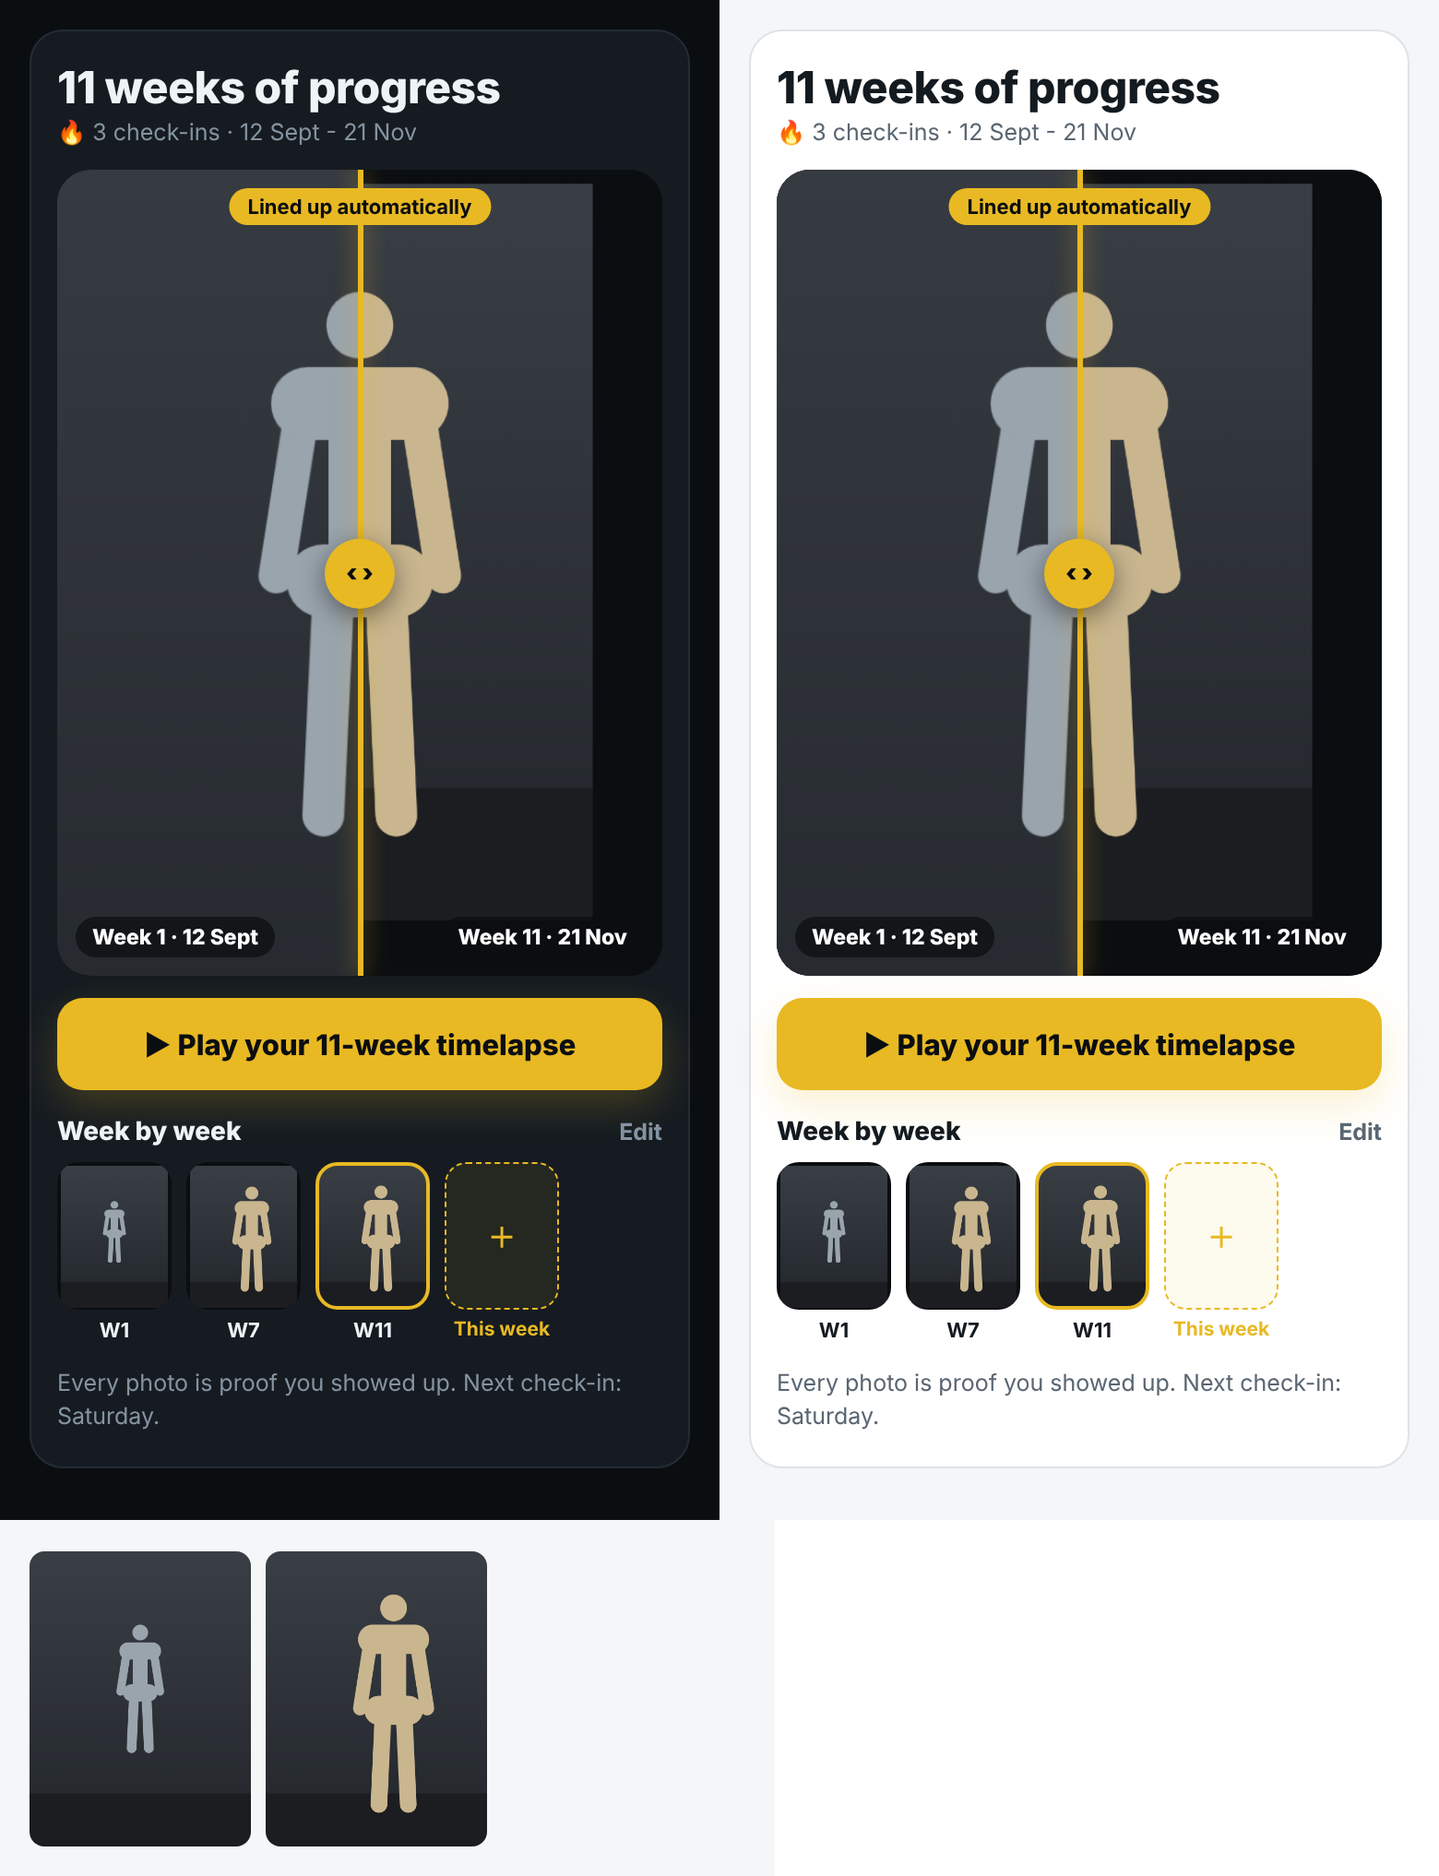
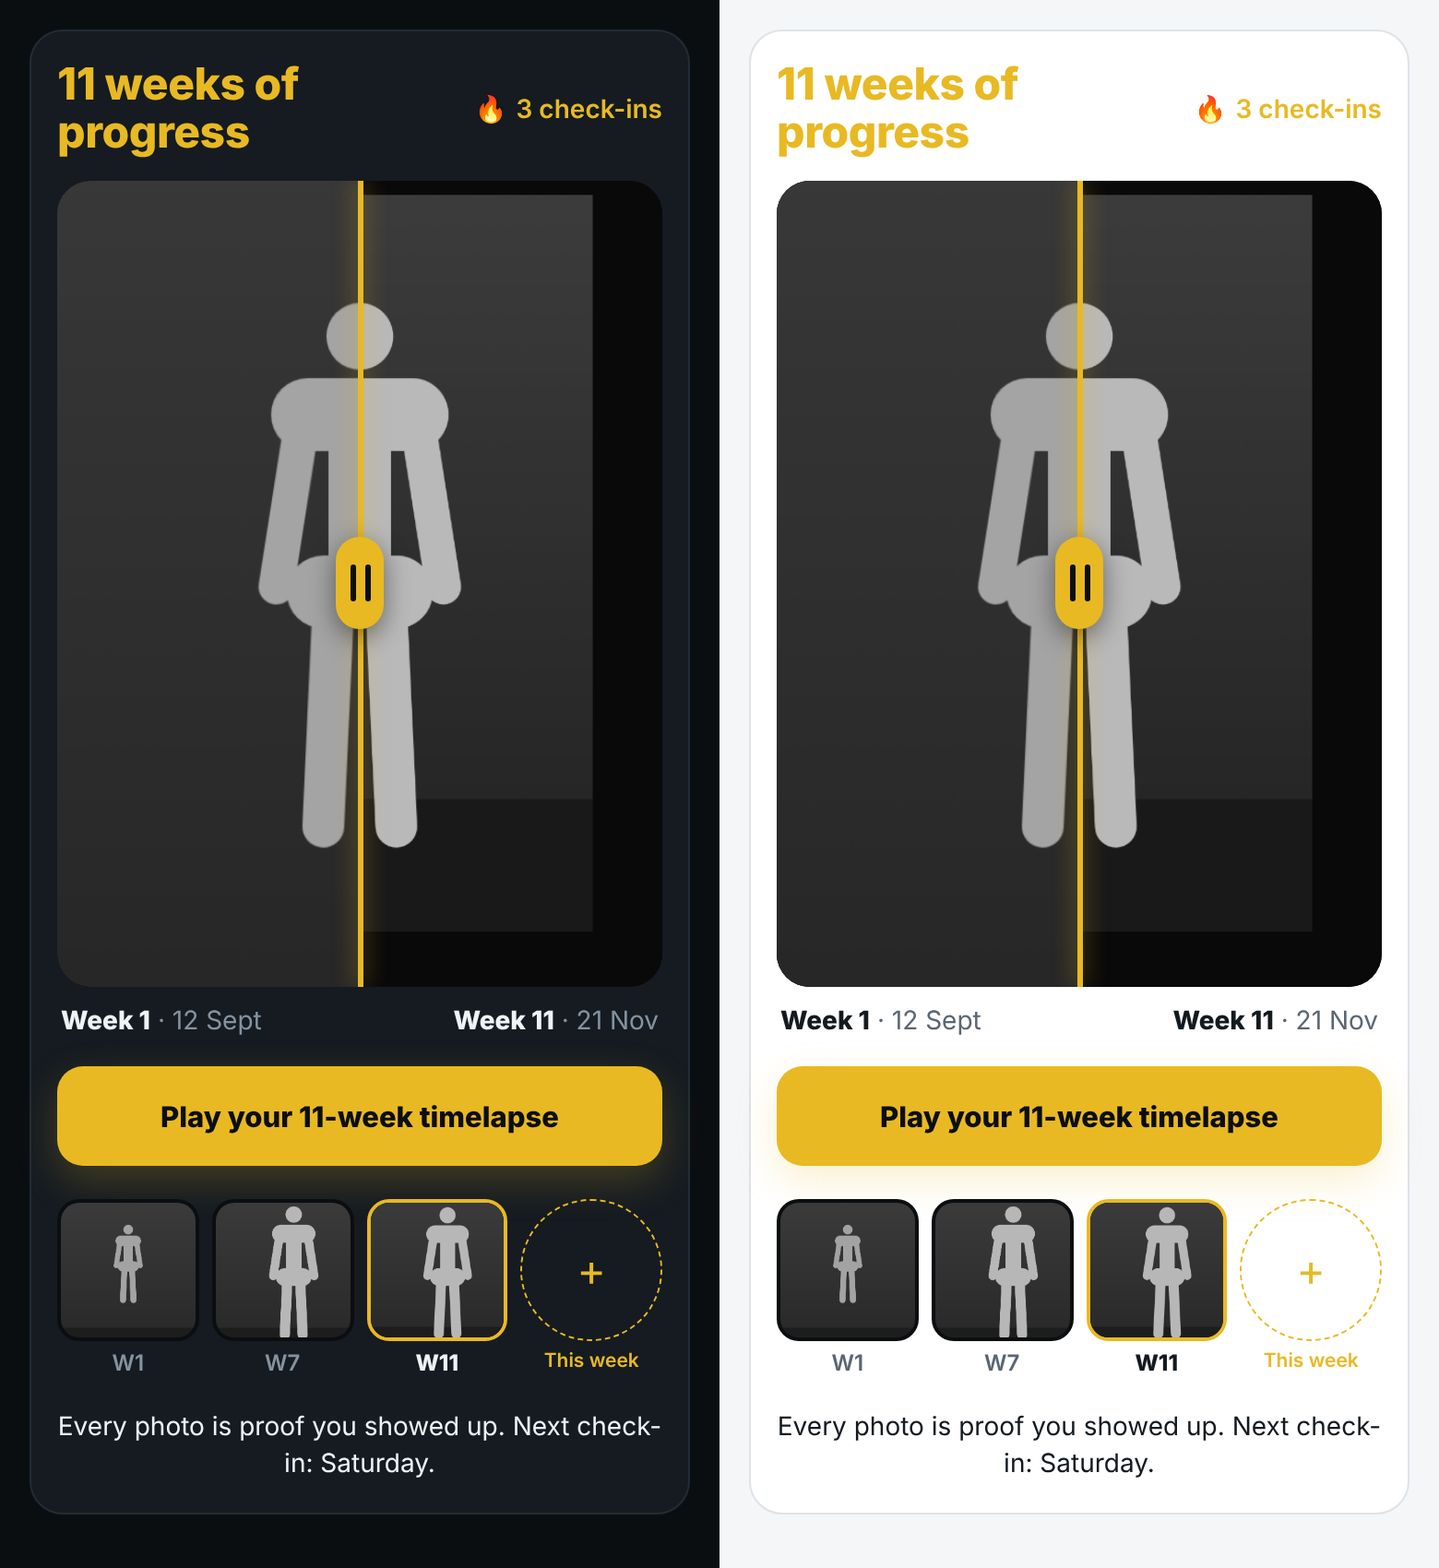
IH-2: check-ins card restyled to the OpenArt concept (gold title, B&W photos, pill handle, labels below, long-press delete)
Claude-Session: https://claude.ai/code/session_014YxhWURLdBk6p3Li8mU1vS

diff --git a/index.html b/index.html
@@ -404,33 +404,40 @@ html[data-theme="light"] .tr-tile .tr-ic{background:rgba(184,150,10,.12);color:#
 @keyframes mxGlow{0%,100%{box-shadow:0 0 0 0 rgba(232,185,35,0)}50%{box-shadow:0 0 14px 2px rgba(232,185,35,.35)}}
 @media (prefers-reduced-motion:reduce){.mx-plus{animation:none}}
 .tl-cv{position:absolute;inset:0;width:100%;height:100%;object-fit:contain}
-.ci2-h{font-family:Montserrat,system-ui,sans-serif;font-size:24px;font-weight:800;color:var(--ink);letter-spacing:-.01em}
+.ci2-hrow{display:flex;align-items:center;justify-content:space-between;gap:10px;margin-bottom:12px}
+.ci2-h{font-family:Montserrat,system-ui,sans-serif;font-size:clamp(19px,6vw,24px);font-weight:800;color:#E8B923;letter-spacing:-.01em;line-height:1.1}
+.ci2-cnt{flex:0 0 auto;font-size:14px;color:#E8B923;font-weight:600;display:flex;align-items:center;gap:5px}
+.ci2-labs{display:flex;justify-content:space-between;margin:10px 2px 0;font-size:14px;color:var(--muted)}
+.ci2-labs b{color:var(--ink);font-weight:800}
 .ci2-sub{font-size:12.5px;color:var(--muted);margin:2px 0 12px}
 .ci2-flame{filter:saturate(1.2)}
 .ci2-cmp{position:relative;aspect-ratio:3/4;border-radius:18px;overflow:hidden;background:#0B0E11;touch-action:pan-y;cursor:ew-resize;user-select:none}
-.ci2-cmp canvas{position:absolute;inset:0;width:100%;height:100%}
+.ci2-cmp canvas{position:absolute;inset:0;width:100%;height:100%;filter:grayscale(1) contrast(1.04)}
 .ci2-cmp.one{cursor:default}
 .ci2-cmp.one .ci2-line,.ci2-cmp.one .ci2-lab.l{display:none}
 .ci2-line{position:absolute;top:0;bottom:0;width:3px;margin-left:-1.5px;background:#E8B923;pointer-events:none;box-shadow:0 0 12px rgba(232,185,35,.6)}
-.ci2-knob{position:absolute;top:50%;left:50%;transform:translate(-50%,-50%);width:38px;height:38px;border-radius:50%;background:#E8B923;color:#0B0E11;font-weight:900;font-size:13px;display:flex;align-items:center;justify-content:center;box-shadow:0 4px 14px rgba(0,0,0,.45)}
+.ci2-knob{position:absolute;top:50%;left:50%;transform:translate(-50%,-50%);width:26px;height:50px;border-radius:13px;background:#E8B923;display:flex;align-items:center;justify-content:center;gap:5px;box-shadow:0 4px 14px rgba(0,0,0,.45)}
+.ci2-knob i{display:block;width:3px;height:20px;border-radius:2px;background:#0B0E11}
 .ci2-lab{position:absolute;bottom:10px;font-size:11.5px;font-weight:800;color:#fff;background:rgba(11,14,17,.72);padding:4px 9px;border-radius:999px}
 .ci2-lab.l{left:10px}.ci2-lab.r{right:10px}
-.ci2-status{position:absolute;top:10px;left:50%;transform:translateX(-50%);font-size:11px;font-weight:700;color:#0B0E11;background:#E8B923;padding:3px 10px;border-radius:999px;transition:opacity .6s;white-space:nowrap}
+.ci2-status{position:absolute;top:10px;left:50%;transform:translateX(-50%);font-size:11px;font-weight:700;color:#fff;background:rgba(11,14,17,.75);padding:3px 10px;border-radius:999px;transition:opacity .6s;white-space:nowrap}
 .ci2-status:empty{display:none}
 .ci2-status.fade{opacity:0}
-.ci2-play{display:block;width:100%;height:50px;margin:12px 0 4px;border:0;border-radius:14px;background:#E8B923;color:#0B0E11;font:inherit;font-size:15.5px;font-weight:800;cursor:pointer;box-shadow:0 8px 22px rgba(232,185,35,.22)}
+.ci2-play{display:block;width:100%;height:54px;margin:16px 0 4px;border:0;border-radius:14px;background:#E8B923;color:#0B0E11;font:inherit;font-size:15.5px;font-weight:800;cursor:pointer;box-shadow:0 8px 22px rgba(232,185,35,.22)}
 .ci2-strip-h{display:flex;justify-content:space-between;align-items:baseline;margin:14px 0 8px;font-size:14px;font-weight:800;color:var(--ink)}
 .ci2-edit{background:none;border:0;color:var(--muted);font:inherit;font-size:12.5px;font-weight:700;cursor:pointer}
-.ci2-strip{display:grid;grid-auto-flow:column;grid-auto-columns:62px;gap:8px;overflow-x:auto;padding-bottom:4px}
+.ci2-strip{display:grid;grid-auto-flow:column;grid-auto-columns:minmax(40px,1fr);gap:7px;overflow-x:auto;padding:14px 0 4px}
 .ci2-th{position:relative;display:flex;flex-direction:column;align-items:center;gap:4px;background:none;border:0;padding:0;color:var(--muted);font:inherit;cursor:pointer}
-.ci2-im{width:62px;height:80px;border-radius:12px;background:#0B0E11 center/cover no-repeat;border:2px solid transparent;display:flex;align-items:center;justify-content:center;font-size:22px;color:#E8B923}
+.ci2-im{width:100%;aspect-ratio:1/1;border-radius:12px;background:#0B0E11 center/cover no-repeat;border:2px solid transparent;display:flex;align-items:center;justify-content:center;font-size:24px;color:#E8B923;overflow:hidden}
+.ci2-pic{display:block;width:100%;height:100%;background:center/cover no-repeat;filter:grayscale(1)}   /* IH-2: only the photo is greyscale, so the gold ring on the selected week stays gold */
 .ci2-th.on .ci2-im{border-color:#E8B923}
-.ci2-th b{font-size:11px;color:var(--ink)}
-.ci2-th.add .ci2-im{border:1.5px dashed #E8B923;background:rgba(232,185,35,.08)}
+.ci2-th b{font-size:12px;color:var(--muted);font-weight:600}
+.ci2-th.on b{color:var(--ink);font-weight:800}
+.ci2-th.add .ci2-im{border:1.5px dashed #E8B923;border-radius:50%;background:transparent}
 .ci2-th.add b{color:#E8B923;font-size:10.5px}
 .ci2-x{display:none;position:absolute;top:-6px;right:-6px;width:22px;height:22px;border-radius:50%;background:#0B0E11;color:#E8B923;border:1.5px solid #E8B923;font-style:normal;font-size:15px;line-height:19px;text-align:center}
 .ci2-strip.editing .ci2-x{display:block}
-.ci2-note{font-size:12.5px;color:var(--muted);margin-top:10px;line-height:1.45}
+.ci2-note{font-size:14px;color:var(--ink);margin-top:14px;line-height:1.45;text-align:center}
 .pd-strip{background:var(--panel);border:1px solid var(--line);border-radius:16px;padding:12px 12px 10px;margin-bottom:12px}
 .pd-h{font-size:13px;font-weight:800;color:var(--ink);margin-bottom:8px}
 .pd-row{display:grid;grid-template-columns:repeat(7,minmax(0,1fr));gap:5px}
@@ -9121,15 +9128,15 @@ function checkinsInspireEl(cis){
   const nextTxt=doneThisWeek?`This week's photo is in. Next check-in: ${new Date(nextSat+"T12:00:00").toLocaleDateString("en-GB",{weekday:"long",day:"numeric",month:"short"})}.`:`Every photo is proof you showed up. Next check-in: ${nextSat===today?"today":new Date(nextSat+"T12:00:00").toLocaleDateString("en-GB",{weekday:"long"})}.`;
   if(!ok.length){ el.innerHTML=`<div class="ci2-h">Your progress starts here</div><div class="ci2-sub">Take your first check-in photo - every week after it builds your before and after.</div><button type="button" class="ci2-play" data-ci-add>📷 Take this week's photo</button>`; el.querySelector("[data-ci-add]").addEventListener("click",()=>startCheckin(today)); return el; }
   let after=ok.length-1;
-  el.innerHTML=`<div class="ci2-h">${span} week${span===1?"":"s"} of progress</div>
-    <div class="ci2-sub"><span class="ci2-flame">🔥</span> ${ok.length} check-in${ok.length===1?"":"s"} · ${short(first.checkin_date)} - ${short(last.checkin_date)}</div>
+  /* IH-2 (owner 11:35 "use the OpenArt design"): gold title with the check-in count on the right, black-and-white photos,
+     a pill handle on the divider, week labels under the photo, square thumbnails (press and hold one to delete), centred note */
+  el.innerHTML=`<div class="ci2-hrow"><div class="ci2-h">${span} week${span===1?"":"s"} of progress</div><span class="ci2-cnt"><span class="ci2-flame">🔥</span>${ok.length} check-in${ok.length===1?"":"s"}</span></div>
     <div class="ci2-cmp${ok.length<2?" one":""}"><canvas class="ci2-a" width="600" height="800"></canvas><canvas class="ci2-b" width="600" height="800"></canvas>
-      <div class="ci2-line"><span class="ci2-knob">‹ ›</span></div>
-      <span class="ci2-lab l">Week 1 · ${short(first.checkin_date)}</span><span class="ci2-lab r"></span><span class="ci2-status">Aligning photos…</span></div>
-    ${ok.length>=2?`<button type="button" class="ci2-play" data-ci-play>▶ Play your ${span}-week timelapse</button>`:`<div class="ci2-sub" style="text-align:center;margin:8px 0">One more check-in and your before and after appears here.</div>`}
-    <div class="ci2-strip-h"><span>Week by week</span>${ME&&ME.id?`<button type="button" class="ci2-edit">Edit</button>`:""}</div>
+      <div class="ci2-line"><span class="ci2-knob"><i></i><i></i></span></div><span class="ci2-status"></span></div>
+    <div class="ci2-labs"><span class="l"><b>Week 1</b> · ${short(first.checkin_date)}</span><span class="r"></span></div>
+    ${ok.length>=2?`<button type="button" class="ci2-play" data-ci-play>Play your ${span}-week timelapse</button>`:`<div class="ci2-note" style="margin:8px 0">One more check-in and your before and after appears here.</div>`}
     <div class="ci2-strip"></div><div class="ci2-note">${escapeHtml(nextTxt)}</div>`;
-  const cmp=el.querySelector(".ci2-cmp"), cA=el.querySelector(".ci2-a"), cB=el.querySelector(".ci2-b"), line=el.querySelector(".ci2-line"), labR=el.querySelector(".ci2-lab.r"), status=el.querySelector(".ci2-status");
+  const cmp=el.querySelector(".ci2-cmp"), cA=el.querySelector(".ci2-a"), cB=el.querySelector(".ci2-b"), line=el.querySelector(".ci2-line"), labR=el.querySelector(".ci2-labs .r"), status=el.querySelector(".ci2-status");
   const setSplit=p=>{ p=Math.max(0,Math.min(100,p)); cB.style.clipPath=`inset(0 ${100-p}% 0 0)`; line.style.left=p+"%"; };
   setSplit(ok.length<2?0:50);
   if(ok.length>=2){
@@ -9148,9 +9155,9 @@ function checkinsInspireEl(cis){
   const paint=async()=>{
     try{
       const A=await getPhoto(ok[after]); drawAligned(cA,A.img,A.info);
-      labR.textContent=ok.length>=2?`Week ${wkOf(ok[after])} · ${short(ok[after].checkin_date)}`:`Week 1 · ${short(first.checkin_date)}`;
+      labR.innerHTML=ok.length>=2?`<b>Week ${wkOf(ok[after])}</b> · ${escapeHtml(short(ok[after].checkin_date))}`:"";
       if(ok.length>=2){ const B=await getPhoto(first); drawAligned(cB,B.img,B.info);
-        status.textContent=(A.info.none||B.info.none)?(A.info.err||B.info.err?"Couldn't line these up - shown as taken":"Body not found in one photo - shown as taken"):"Lined up automatically"; }
+        status.textContent=(A.info.none||B.info.none)?(A.info.err||B.info.err?"Couldn't line these up - shown as taken":"Body not found in one photo - shown as taken"):""; }
       else status.textContent="";
       setTimeout(()=>{ status.classList.add("fade"); },2200);
     }catch(e){ console.warn("check-in compare (IH)",e); status.textContent="Couldn't load the photos"; }
@@ -9158,13 +9165,14 @@ function checkinsInspireEl(cis){
   paint();
   /* week strip */
   const strip=el.querySelector(".ci2-strip");
-  ok.forEach((c,i)=>{ const b=document.createElement("button"); b.type="button"; b.className="ci2-th"+(i===after?" on":""); b.innerHTML=`<span class="ci2-im"></span><b>W${wkOf(c)}</b><i class="ci2-x" aria-label="Delete this photo">×</i>`;
+  ok.forEach((c,i)=>{ const b=document.createElement("button"); b.type="button"; b.className="ci2-th"+(i===after?" on":""); b.innerHTML=`<span class="ci2-im"><i class="ci2-pic"></i></span><b>W${wkOf(c)}</b>`; b.title="Press and hold to delete";
     b.addEventListener("click",ev=>{ if(ev.target.classList.contains("ci2-x")) return; if(i===0&&ok.length>1){ getPhoto(c).then(p=>openPhotoLightbox(p.url)); return; } after=i; strip.querySelectorAll(".ci2-th").forEach((x,j)=>x.classList.toggle("on",j===i)); paint(); });
-    b.querySelector(".ci2-x").addEventListener("click",async ev=>{ ev.stopPropagation(); const okd=await openConfirm({title:"Delete this check-in photo?",body:`The photo from ${fmtDay(c.checkin_date)} will be removed for you and your coach.`,confirmLabel:"Delete",cancelLabel:"Keep",danger:true}); if(!okd) return; try{ await store.checkins.update(c.id,{photo_path:null}); toast("Photo deleted",1500); renderEngagement(); }catch(e){ console.error("delete checkin",e); toast(e.message||"Could not delete",3000); } });
+    let holdT=null, held=false; b.addEventListener("pointerdown",()=>{ held=false; holdT=setTimeout(()=>{ held=true; b.dispatchEvent(new CustomEvent("ci-del")); },650); }); ["pointerup","pointerleave","pointercancel"].forEach(n=>b.addEventListener(n,()=>clearTimeout(holdT))); b.addEventListener("contextmenu",e=>e.preventDefault());
+    b.addEventListener("click",ev=>{ if(held){ ev.stopImmediatePropagation(); held=false; } },true);
+    b.addEventListener("ci-del",async ev=>{ const okd=await openConfirm({title:"Delete this check-in photo?",body:`The photo from ${fmtDay(c.checkin_date)} will be removed for you and your coach.`,confirmLabel:"Delete",cancelLabel:"Keep",danger:true}); if(!okd) return; try{ await store.checkins.update(c.id,{photo_path:null}); toast("Photo deleted",1500); renderEngagement(); }catch(e){ console.error("delete checkin",e); toast(e.message||"Could not delete",3000); } });
     strip.appendChild(b);
-    getPhoto(c).then(p=>{ b.querySelector(".ci2-im").style.backgroundImage=`url("${p.url}")`; }).catch(()=>{}); });
-  if(!doneThisWeek){ const add=document.createElement("button"); add.type="button"; add.className="ci2-th add"; add.innerHTML=`<span class="ci2-im">＋</span><b>This week</b>`; add.addEventListener("click",()=>startCheckin(today)); strip.appendChild(add); }
-  const ed=el.querySelector(".ci2-edit"); if(ed) ed.addEventListener("click",()=>{ const on=strip.classList.toggle("editing"); ed.textContent=on?"Done":"Edit"; });
+    getPhoto(c).then(p=>{ b.querySelector(".ci2-pic").style.backgroundImage=`url("${p.url}")`; }).catch(()=>{}); });
+  if(!doneThisWeek){ const add=document.createElement("button"); add.type="button"; add.className="ci2-th add"; add.innerHTML=`<span class="ci2-im">+</span><b>This week</b>`; add.addEventListener("click",()=>startCheckin(today)); strip.appendChild(add); }
   return el;
 }
 let mvSelWeek=null;

diff --git a/PRODUCT_LOG.md b/PRODUCT_LOG.md
@@ -2000,6 +2000,7 @@ duplicates (two wiring copies) and reverted before anything was written.
 4. When a photo cannot be aligned (no body found), it is still shown - unaligned - and the card says so; it never blocks the card.
 5. The trainee's photos never leave the app for this (alignment runs on the phone).
 **Built (trainee's Training -> Check-ins; coaches keep the strip):** `checkinsInspireEl` - "N weeks of progress" (weeks from the first to the latest photo), "🔥 N check-ins · first - latest date"; **before / after** canvas with a draggable gold divider (starts at 50%), labels "Week 1 · date" / "Week N · date", a "Lined up automatically" pill that fades (or "Body not found in one photo - shown as taken"); wide gold **"Play your N-week timelapse"**; **Week by week** thumbnails W1... (tap one to make it the "after" side; tap W1 to view it full size), a dashed gold **"+ This week"** slot when this week has no photo (opens the camera), **Edit** shows a delete × on each thumbnail (same confirm as before); a motivating line "Every photo is proof you showed up. Next check-in: Saturday." (or "This week's photo is in. Next check-in: Saturday d MMM"); first-photo state "Your progress starts here". **Alignment:** a separate MediaPipe pose model in IMAGE mode (CPU) finds shoulders and hips; each photo is drawn into a 3:4 canvas so the torso is 22% of the height, centred at (50%, 40%); results cached per photo on the device (`ft-align:<path>`); the timelapse frames are redrawn the same way once aligned. Images load with CORS so the model can read them. Checked with two synthetic photos of one figure at very different distance and position: they line up as one figure split down the middle. Gate passed. Fix on the way: first framing (torso 30%) cut the legs - zoomed out to 22%.
+**IH-2 (owner 11:35, with the concept image: "Use openart design"):** restyled to the concept (`docs/brand/checkins-concept.png`): gold title "N weeks of progress" with "🔥 N check-ins" on the right; **black-and-white photos** (both sides of the comparison and the thumbnails; only the photo is greyscale, the gold ring stays gold); a gold pill handle with two bars on the divider; "**Week 1** · date" / "**Week N** · date" under the photo; button text "Play your N-week timelapse" (no ▶); square thumbnails with week labels and a dashed gold circle "+ This week"; centred motivating line. Removed to match: the date range line, the "Week by week" heading, the Edit link - **delete is now press and hold on a thumbnail** (same confirm); the "Lined up automatically" pill (a note still shows when a photo could not be aligned). Mistake on the way: the edit script stopped after its first change (an anchor started one word too early) - the gate had not run; the remaining changes were applied with the corrected anchor before anything was pushed.
 **Not tested here:** the pose model on real photos (it cannot be downloaded in the build workspace) - the owner's test IH-T1. **Limits:** a different angle, lens or pose is not corrected; a closer photo can leave empty margins after scaling; whole body must be in frame for the best result. - LOGGED 2026-11-24 (personal account)
 
 **Owner 11:03 (screenshot: the IE-3 day strip over stacked P/C/F daily bars with a dashed protein line and a sideways scrollbar):** review intake averages per week or per day; easy to compare actual intake with the coach's targets; a missed day must be obvious and draw attention so it gets logged after the fact.

diff --git a/docs/TEST_QUEUE.md b/docs/TEST_QUEUE.md
@@ -20,7 +20,7 @@ Tip: allow ~10 minutes after a change for the phone to pick up the new version (
 
 - [ ] **IG-T1** Training -> Macros: Week shows the week's average calories and protein in two gold rings against your coach's targets (On target / Under / Over); the daily bars have a dashed target line; a day you didn't log glows with "+ Log" and the gold banner lists missed days - tap to log; tap a bar -> Day shows that day; arrows step back through earlier weeks; dark and light.
 
-- [ ] **IH-T1** Training -> Check-ins: "N weeks of progress"; before / after of week 1 and your latest photo - drag the gold divider; do the two halves line up as one person (same size and height)? Play the timelapse - does the body stay put? Tap a thumbnail to compare that week; Edit -> × deletes (asks first); "+ This week" opens the camera. Report any photo that does not line up (and whether your whole body is in it).
+- [ ] **IH-T1** Training -> Check-ins: "N weeks of progress"; before / after of week 1 and your latest photo - drag the gold divider; do the two halves line up as one person (same size and height)? Play the timelapse - does the body stay put? Photos are black and white; tap a thumbnail to compare that week; press and hold a thumbnail -> delete (asks first); "+ This week" opens the camera. Report any photo that does not line up (and whether your whole body is in it).
 
 ## First — after the security lock (GD, 2026-11-10)
 - [ ] **GD-T1** Everything still works after the internal functions were locked. As a **trainee** and as a **coach**: sign out and in; open every tab (Home, Goal / Trainees, Training / Library, Social, Profile, Notifications; Review as admin); open a workout and mark a set; submit; as the coach open a review; open the payment tracker on a goal; pause / end pause; Social: congratulate. **If any screen says "permission denied for function …", note the function name** - it is a one-line fix.
